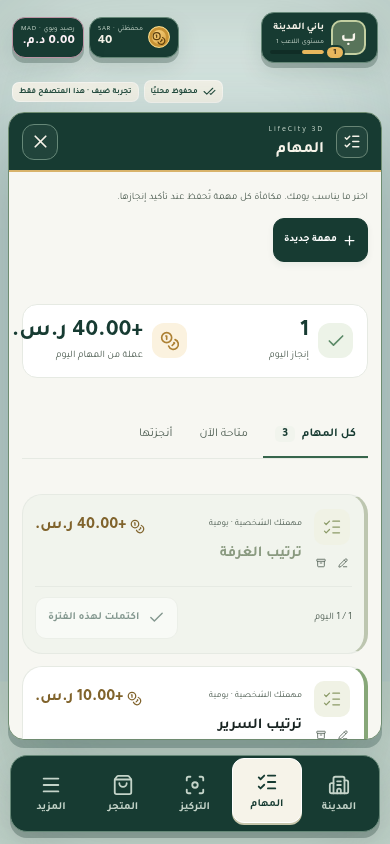
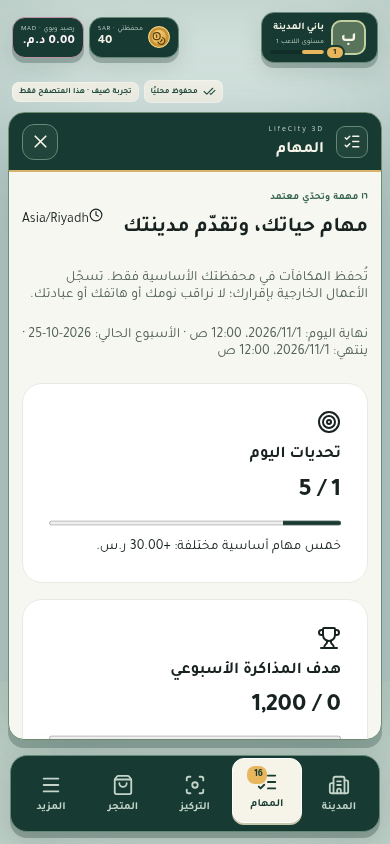
Deliver cached PWA updates safely and put all 16 missions first

diff --git a/src/pages/Tasks.tsx b/src/pages/Tasks.tsx
@@ -55,12 +55,11 @@ export default function Tasks() {
     const payload = editing ? builtin ? {task_id:editing.id,daily_limit:limit} : {task_id:editing.id,...fields} : fields;
     if (await run(editing ? 'task_update' : 'task_create', payload, 'editor')) { setOpen(false); setEditing(null); setTitle(''); }
   }
-  return <div className="page tasks-page"><SectionTitle eyebrow={t('من حياتك إلى مدينتك', 'FROM YOUR LIFE TO YOUR CITY')} title={t('إنجازات صغيرة، أثر كبير.', 'Small actions. Lasting progress.')} description={t('اختر ما يناسب يومك. مكافأة كل مهمة تُحفظ عند تأكيد إنجازها.', 'Choose what fits your day. Each reward is saved when you confirm completion.')} action={<Button onClick={() => openEditor()}><Plus size={19} />{t('مهمة جديدة', 'New task')}</Button>} />
+  return <div className="page tasks-page"><ApprovedTaskBoard/><SectionTitle eyebrow={t('من حياتك إلى مدينتك', 'FROM YOUR LIFE TO YOUR CITY')} title={t('مهامك الأساسية والخاصة', 'Your original & custom tasks')} description={t('اختر ما يناسب يومك. مكافأة كل مهمة تُحفظ عند تأكيد إنجازها.', 'Choose what fits your day. Each reward is saved when you confirm completion.')} action={<Button onClick={() => openEditor()}><Plus size={19} />{t('مهمة جديدة', 'New task')}</Button>} />
     <div className="task-summary"><div><span className="stat-icon moss"><Check size={24} /></span><span><b>{number(today.length)}</b><small>{t('إنجاز اليوم', 'completed today')}</small></span></div><div><span className="stat-icon gold"><Coins size={24} /></span><span><b>+{format(today.reduce((sum, entry) => sum + entry.reward, 0))}</b><small>{t('عملة من المهام اليوم', 'task coins earned today')}</small></span></div><div className="task-summary-note"><Sparkles size={20} /><p>{t('عاداتك هي البذور. مدينتك هي الثمرة.', 'Your habits are the seeds. Your city is what grows.')}</p></div></div>
     {message && <Notice tone={message.error ? 'danger' : 'success'}>{message.text}</Notice>}
     <div className="tab-row" role="group" aria-label={t('تصفية المهام', 'Filter tasks')}>{[['all', t('كل المهام', 'All tasks')], ['available', t('متاحة الآن', 'Available now')], ['done', t('أنجزتها', 'Completed')]].map(([key, label]) => <button className={`tab ${filter === key ? 'active' : ''}`} onClick={() => setFilter(key)} key={key} aria-pressed={filter === key}>{label}{key === 'all' && <span>{number(active.length)}</span>}</button>)}</div>
     {visible.length === 0 ? <div className="panel"><EmptyState icon={<ListChecks size={29} />} title={filter === 'done' ? t('صفحة جديدة ليومك', 'A fresh page for your day') : t('أفسح المجال لخطوة جديدة', 'Make room for a new step')} description={t('أضف مهمة شخصية، أو غيّر التصفية لمشاهدة مهامك.', 'Add a personal task or change the filter to see your tasks.')} action={<Button variant="secondary" onClick={() => openEditor()}><Plus size={17} />{t('أضف مهمة', 'Add a task')}</Button>} /></div> : <div className="tasks-grid">{visible.map(task => { const count = countFor(task); const effectiveLimit = limitFor(task); const done = count >= effectiveLimit; const Icon = task.category === 'exercise' ? Dumbbell : task.category === 'cleaning' ? Flower2 : ListChecks; return <article className={`panel task-card ${done ? 'task-done' : ''}`} key={task.id}><div className="task-card-top"><span className={`task-art task-art-${task.category}`}><Icon size={28} strokeWidth={1.5} /></span><div className="row"><button className="icon-button muted" disabled={!!busy || !online} onClick={() => openEditor(task)} aria-label={t('تعديل المهمة: ', 'Edit task: ') + task.title}><PencilLine size={18} /></button><button className="icon-button muted" disabled={!!busy || !online} onClick={() => void run('task_archive', {task_id: task.id}, task.id)} aria-label={t('أرشفة المهمة: ', 'Archive task: ') + task.title}><Archive size={18} /></button></div></div><span className="task-category">{task.category === 'exercise' ? t('الحركة والعافية', 'Movement & wellness') : task.category === 'cleaning' ? t('مساحتك', 'Your space') : t('مهمتك الشخصية', 'Your personal task')} · {frequencyName(frequencyOf(task))}</span><h2>{language === 'ar-SA' && task.title_ar ? task.title_ar : language === 'en' && task.title_en ? task.title_en : task.title}</h2><div className="task-card-reward"><Coins size={19} /><strong>+{format(task.reward)}</strong><span>{t('لكل إنجاز', 'per completion')}</span></div><div className="task-card-bottom"><span className="muted">{number(count)} / {number(effectiveLimit)} {periodName(frequencyOf(task))}</span><Button variant={done ? 'secondary' : 'primary'} disabled={done || !!busy || !online} loading={busy === task.id} onClick={() => void run('task_complete', {task_id: task.id}, task.id)}><Check size={17} />{done ? t('اكتملت لهذه الفترة', 'Complete for this period') : t('أنجزت المهمة', 'Mark complete')}</Button></div></article>; })}</div>}
-    <ApprovedTaskBoard/>
     <p className="page-footnote">{t('سجّل الإنجاز الفعلي فقط. حدود التكرار والمكافآت يتحقق منها الخادم.', 'Record actual completions. The server checks repetition limits and rewards.')}</p>
     <Modal open={open} onClose={() => { if (!busy) setOpen(false); }} title={editing ? t('إعدادات المهمة', 'Task settings') : t('خطوة جديدة ليومك', 'A new step for your day')}><form onSubmit={event => void saveTask(event)} className="form-stack"><p className="muted">{builtin ? t('مكافأة المهمة الأساسية وجدولها ثابتان. يمكنك ضبط حدّ الإنجاز في اليوم.', 'This standard task has a fixed reward and schedule. You can adjust its daily completion limit.') : t('اختر مهمة واضحة ومكافأة مناسبة. كررها يوميًا أو أسبوعيًا، أو اختر إنجازًا لمرة واحدة فقط.', 'Choose a clear task and a fitting reward. Repeat it daily or weekly, or choose a one-time achievement.')}</p><label className="field"><span>{t('اسم المهمة', 'Task name')}</span><input className="input" value={title} onChange={event => setTitle(event.target.value)} disabled={builtin} required minLength={2} maxLength={120} placeholder={t('مثلًا: المشي في الحديقة', 'For example: a walk in the park')} /></label><div className="form-grid"><label className="field"><span>{t('المكافأة', 'Reward')}</span><input type="number" className="input" required min={1} max={builtin ? undefined : state.preferences.custom_reward_limit} disabled={builtin} value={reward} onChange={event => setReward(Number(event.target.value))} /><small>{builtin ? t('مكافأة ثابتة', 'Fixed reward') : t('الحد الأقصى', 'Maximum') + ': ' + number(state.preferences.custom_reward_limit)}</small></label><label className="field"><span>{t('التكرار', 'Schedule')}</span><select className="select" value={frequency} disabled={builtin} onChange={event => { const next = event.target.value as Frequency; setFrequency(next); if (next === 'once') setLimit(1); }}><option value="daily">{t('يوميًا', 'Daily')}</option><option value="weekly">{t('أسبوعيًا', 'Weekly')}</option><option value="once">{t('مرة واحدة فقط', 'Once only')}</option></select></label></div><label className="field"><span>{frequency === 'weekly' ? t('حدّ الإنجاز في الأسبوع', 'Weekly completion limit') : frequency === 'once' ? t('إنجاز واحد خلال عمر المهمة', 'One lifetime completion') : t('حدّ الإنجاز في اليوم', 'Daily completion limit')}</span><input type="number" className="input" required min={1} max={frequency === 'once' ? 1 : state.preferences.task_daily_limit} disabled={frequency === 'once'} step={1} value={limit} onChange={event => setLimit(Number(event.target.value))} /><small>{frequency === 'weekly' ? t('يبدأ الأسبوع يوم الاثنين حسب منطقتك الزمنية.', 'The week starts on Monday in your timezone.') : frequency === 'once' ? t('يمكن إنجازها مرة واحدة فقط؛ تبقى الإنجازات السابقة محسوبة.', 'This task can be completed once only; past completions still count.') : t('تبدأ الفترة الجديدة عند منتصف الليل في منطقتك الزمنية.', 'A new period starts at midnight in your timezone.')} {t('حدّ الحساب:', 'Account cap:')} {number(state.preferences.task_daily_limit)}</small></label><label className="field"><span>{t('الفئة', 'Category')}</span><select className="select" value={category} disabled={builtin} onChange={event => setCategory(event.target.value)}><option value="personal">{t('شخصية', 'Personal')}</option><option value="cleaning">{t('تنظيم ونظافة', 'Tidying & cleaning')}</option><option value="exercise">{t('رياضة وعافية', 'Exercise & wellness')}</option></select></label>{editing && !builtin && <Notice>{t('تغيير الجدول لا يمحو الإنجازات السابقة؛ تُحسب ضمن الفترة الجديدة عند انطباقها. المكافأة الجديدة تخص الإنجازات المقبلة فقط.', 'Changing the schedule preserves past completions; they count toward the new period when applicable. The new reward applies only to future completions.')}</Notice>}{message?.error && <Notice tone="danger">{message.text}</Notice>}<Button type="submit" disabled={!online || !!busy || !title.trim()} loading={busy === 'editor'}>{editing ? <Save size={18} /> : <Plus size={18} />}{editing ? t('حفظ الإعدادات', 'Save settings') : t('إضافة المهمة', 'Create task')}</Button></form></Modal>
   </div>;

diff --git a/src/components/AppLayout.tsx b/src/components/AppLayout.tsx
@@ -6,6 +6,7 @@ import { useLocale } from '../lib/locale';
 import { levelFromXp } from '../lib/rules';
 import { Button, LoadingState, Modal, Notice } from './Common';
 import City from '../pages/City';
+import {appPath} from '../lib/paths';
 import {useMoney} from '../lib/useMoney';
 import { useStudyHeartbeat } from '../lib/useStudyHeartbeat';
 import '../game-shell.css';
@@ -84,12 +85,12 @@ export default function AppLayout() {
     </main>
     {activeStudy && location.pathname !== '/timer' && <Link to="/timer" className="game-focus-pill" data-testid="active-focus"><Focus size={17}/><span>{activeStudy.status === 'running' ? t('جلسة تركيز مستمرة', 'Focus session running') : t('جلسة تركيز متوقفة', 'Focus session paused')}</span><b>{number(activeStudy.credited_minutes)} {t('د', 'min')}</b></Link>}
     <nav className="game-dock" aria-label={t('التنقل الرئيسي', 'Main navigation')}>
-      {primary.map(({path,icon:Icon,label,hint}) => <NavLink ref={path === '/city' ? cityLink : undefined} key={path} to={path} className={({isActive}) => `game-dock-item ${isActive ? 'active' : ''}`}><span className="game-dock-icon"><Icon size={23}/>{path === '/timer' && activeStudy?.status === 'running' && <i/>}</span><strong>{label}</strong><small>{hint}</small></NavLink>)}
+      {primary.map(({path,icon:Icon,label,hint}) => <NavLink ref={path === '/city' ? cityLink : undefined} key={path} to={path} className={({isActive}) => `game-dock-item ${isActive ? 'active' : ''}`}><span className="game-dock-icon"><Icon size={23}/>{path==='/tasks'&&state?.approved_tasks&&<b className="game-mission-count" aria-label={t('١٦ مهمة وتحدّي','16 tasks and milestones')}>{number(state.approved_tasks.catalog.length)}</b>}{path === '/timer' && activeStudy?.status === 'running' && <i/>}</span><strong>{label}</strong><small>{hint}</small></NavLink>)}
       <button className={`game-dock-item ${menu ? 'active' : ''}`} aria-label={t('قائمة اللعبة', 'Game menu')} aria-haspopup="dialog" onClick={() => setMenu(true)}><span className="game-dock-icon"><Menu size={23}/></span><strong>{t('المزيد', 'More')}</strong><small>{t('مساحاتك', 'YOUR SPACES')}</small></button>
     </nav>
     <Modal open={menu} onClose={() => setMenu(false)} title={t('قائمة اللعبة', 'Game menu')}>
       <div className="game-menu-grid">{extra.map(({path,icon:Icon,label,hint}) => <Link key={path} to={path} onClick={() => setMenu(false)}><span><Icon size={25}/></span><strong>{label}</strong><small>{hint}</small></Link>)}</div>
-      <div className="game-menu-footer"><button className="language-switch button button-secondary" onClick={() => setLanguage(language === 'ar-SA' ? 'en' : 'ar-SA')}>{language === 'ar-SA' ? 'English' : 'العربية'}</button><Link to="/" onClick={() => setMenu(false)}>{t('الشاشة الرئيسية', 'Title screen')}</Link><span>{mode === 'demo' ? t('تجربة محلية', 'Local demo') : t('LifeCity 3D', 'LifeCity 3D')}</span></div>
+      <div className="game-menu-footer"><span data-testid="game-release">{t('تحديث مهام الحياة · ١٦','Life tasks update · 16')}</span>{import.meta.env.PROD&&<a href={appPath('api/update.html')}>{t('تحميل أحدث نسخة مع حفظ التقدّم','Load latest version & keep progress')}</a>}<button className="language-switch button button-secondary" onClick={() => setLanguage(language === 'ar-SA' ? 'en' : 'ar-SA')}>{language === 'ar-SA' ? 'English' : 'العربية'}</button><Link to="/" onClick={() => setMenu(false)}>{t('الشاشة الرئيسية', 'Title screen')}</Link><span>{mode === 'demo' ? t('تجربة محلية', 'Local demo') : t('LifeCity 3D', 'LifeCity 3D')}</span></div>
     </Modal>
   </div>;
 }

diff --git a/src/App.tsx b/src/App.tsx
@@ -4,10 +4,11 @@ import {useAuth} from './lib/game';
 import {useLocale} from './lib/locale';
 const AppLayout=lazy(()=>import('./components/AppLayout'));
 import {appPath} from './lib/paths';
+import {PwaUpdatePrompt} from './components/PwaUpdatePrompt';
 const Landing=lazy(()=>import('./pages/Landing'));const Auth=lazy(()=>import('./pages/Auth'));const Dashboard=lazy(()=>import('./pages/Dashboard'));const Shop=lazy(()=>import('./pages/Shop'));const Tasks=lazy(()=>import('./pages/Tasks'));const Timer=lazy(()=>import('./pages/Timer'));const Prayers=lazy(()=>import('./pages/Prayers'));const Interior=lazy(()=>import('./pages/Interior'));const Yuyi=lazy(()=>import('./pages/Yuyi'));const Stats=lazy(()=>import('./pages/Stats'));const Settings=lazy(()=>import('./pages/Settings'));
 const Legal=lazy(()=>import('./pages/Legal'));
 const Economy=lazy(()=>import('./pages/Economy'));
 const Pricing=lazy(()=>import('./pages/Pricing'));const Visit=lazy(()=>import('./pages/Visit'));
 function Loading(){const {t}=useLocale();return <div className="app-loading" role="status"><img src={appPath('icons/icon.svg')} width="60" height="60" alt=""/><p>{t('نجهّز مساحة لإنجازاتك…','Making room for your progress…')}</p></div>;}
 function Private(){const {user,loading}=useAuth();const location=useLocation();return loading?<Loading/>:user?<AppLayout/>:<Navigate to="/login" state={{from:location.pathname+location.search}} replace/>;}
-export default function App(){return <Suspense fallback={<Loading/>}><Routes><Route path="/" element={<Landing/>}/><Route path="/pricing" element={<Pricing/>}/><Route path="/visit" element={<Visit/>}/><Route path="/privacy" element={<Legal/>}/><Route path="/terms" element={<Legal/>}/><Route path="/refunds" element={<Legal/>}/><Route path="/login" element={<Auth/>}/><Route path="/reset-password" element={<Auth/>}/><Route element={<Private/>}><Route path="/dashboard" element={<Dashboard/>}/><Route path="/city" element={null}/><Route path="/shop" element={<Shop/>}/><Route path="/tasks" element={<Tasks/>}/><Route path="/timer" element={<Timer/>}/><Route path="/prayers" element={<Prayers/>}/><Route path="/interior" element={<Interior/>}/><Route path="/interior/:houseId" element={<Interior/>}/><Route path="/yuyi" element={<Yuyi/>}/><Route path="/stats" element={<Stats/>}/><Route path="/settings" element={<Settings/>}/><Route path="/economy" element={<Economy/>}/></Route><Route path="*" element={<Navigate to="/" replace/>}/></Routes></Suspense>;}
+export default function App(){return <><PwaUpdatePrompt/><Suspense fallback={<Loading/>}><Routes><Route path="/" element={<Landing/>}/><Route path="/pricing" element={<Pricing/>}/><Route path="/visit" element={<Visit/>}/><Route path="/privacy" element={<Legal/>}/><Route path="/terms" element={<Legal/>}/><Route path="/refunds" element={<Legal/>}/><Route path="/login" element={<Auth/>}/><Route path="/reset-password" element={<Auth/>}/><Route element={<Private/>}><Route path="/dashboard" element={<Dashboard/>}/><Route path="/city" element={null}/><Route path="/shop" element={<Shop/>}/><Route path="/tasks" element={<Tasks/>}/><Route path="/timer" element={<Timer/>}/><Route path="/prayers" element={<Prayers/>}/><Route path="/interior" element={<Interior/>}/><Route path="/interior/:houseId" element={<Interior/>}/><Route path="/yuyi" element={<Yuyi/>}/><Route path="/stats" element={<Stats/>}/><Route path="/settings" element={<Settings/>}/><Route path="/economy" element={<Economy/>}/></Route><Route path="*" element={<Navigate to="/" replace/>}/></Routes></Suspense></>;}

diff --git a/src/components/PwaUpdatePrompt.tsx b/src/components/PwaUpdatePrompt.tsx
@@ -1,0 +1,17 @@
+import {useEffect,useRef,useState} from 'react';
+import {useRegisterSW} from 'virtual:pwa-register/react';
+import {RefreshCw} from 'lucide-react';
+import {useGame} from '../lib/game';
+import {useLocale} from '../lib/locale';
+import {Button} from './Common';
+import './pwa-update.css';
+
+/** Prompted updates preserve saved data and settle a running focus session first. */
+export function PwaUpdatePrompt(){
+ const {state,saveStatus,online,mutate}=useGame();const {t}=useLocale();const registration=useRef<ServiceWorkerRegistration|undefined>(undefined);const [busy,setBusy]=useState(false);const [failed,setFailed]=useState(false);const lock=useRef(false);
+ const {needRefresh:[needRefresh],updateServiceWorker}=useRegisterSW({onRegisteredSW(_url,r){registration.current=r;}});
+ useEffect(()=>{const check=()=>{if(navigator.onLine&&document.visibilityState==='visible'&&registration.current?.active)void registration.current.update().catch(()=>{});};window.addEventListener('focus',check);window.addEventListener('online',check);const timer=window.setInterval(check,3600000);return()=>{window.removeEventListener('focus',check);window.removeEventListener('online',check);window.clearInterval(timer);};},[]);
+ async function update(){if(lock.current||!online||saveStatus==='saving')return;lock.current=true;setBusy(true);setFailed(false);try{const active=state?.study_sessions.find(s=>s.status==='running');if(active)await mutate('study_pause',{session_id:active.id});await updateServiceWorker(true);}catch{setFailed(true);}finally{lock.current=false;setBusy(false);}}
+ if(!needRefresh)return null;
+ return <aside className="pwa-update-prompt" role="status" data-testid="pwa-update-prompt"><div><strong>{t('تحديث اللعبة جاهز','Game update ready')}</strong><p>{t('تقدّمك المحفوظ يبقى كما هو. سنوقف جلسة التركيز مؤقتًا إن كانت تعمل.','Saved progress stays intact. A running focus session will be paused first.')}</p>{failed&&<p>{t('تعذّر إتمام التحديث. راجع الاتصال وحاول مجددًا.','Update could not finish. Check your connection and retry.')}</p>}</div><Button disabled={busy||!online||saveStatus==='saving'} loading={busy} onClick={()=>void update()}><RefreshCw size={17}/>{t('تحديث الآن','Update now')}</Button></aside>;
+}

diff --git a/public/api/update.js b/public/api/update.js
@@ -1,0 +1,15 @@
+/* global URL, document, clearTimeout, setTimeout, navigator, location */
+// This route deliberately bypasses older Workbox navigation fallbacks (/api/).
+// Never clear IndexedDB/localStorage/caches, or touch another application's worker.
+const appBase=new URL('../',import.meta.url);
+const status=document.querySelector('#update-status');
+const retry=document.querySelector('#update-retry');
+let busy=false;
+function waitFor(worker,states){return new Promise((resolve,reject)=>{let timer;const changed=()=>{if(states.includes(worker.state)){cleanup();resolve();}else if(worker.state==='redundant'){cleanup();reject(new Error('UPDATE_FAILED'));}};const cleanup=()=>{clearTimeout(timer);worker.removeEventListener('statechange',changed);};worker.addEventListener('statechange',changed);timer=setTimeout(()=>{cleanup();reject(new Error('UPDATE_TIMEOUT'));},15000);changed();});}
+async function update(){if(busy)return;busy=true;retry.hidden=true;status.textContent='نحمّل النسخة الجديدة مع الاحتفاظ بالحفظ والمخزون والأرصدة.';try{
+ if(!navigator.onLine)throw new Error('OFFLINE');
+ if('serviceWorker' in navigator){const registrations=await navigator.serviceWorker.getRegistrations();for(const registration of registrations){if(registration.scope!==appBase.href)continue;await registration.update();if(registration.installing)await waitFor(registration.installing,['installed','activated']);const waiting=registration.waiting;if(waiting){const activated=waitFor(waiting,['activated']);waiting.postMessage({type:'SKIP_WAITING'});await activated;}}}
+ status.textContent='اكتمل التحديث. نفتح المهام الجديدة الآن…';location.replace(new URL('tasks',appBase).href);
+ }catch{status.textContent='تعذّر تحميل التحديث. تأكد من الاتصال ثم أعد المحاولة؛ حفظك لم يُحذف.';retry.hidden=false;}finally{busy=false;}}
+retry.addEventListener('click',()=>void update());
+void update();

diff --git a/src/game-shell.css b/src/game-shell.css
@@ -51,3 +51,5 @@
 .approved-board{display:grid;gap:1.4rem;margin-block:2rem}.approved-heading{display:flex;justify-content:space-between;align-items:center;gap:1rem;flex-wrap:wrap}.approved-heading h2{margin:.5rem 0}.approved-progress,.approved-grid{display:grid;grid-template-columns:repeat(auto-fit,minmax(min(100%,230px),1fr));gap:1rem}.approved-progress article,.approved-card{display:grid;align-content:start;gap:.7rem}.approved-progress strong{font-size:1.6rem}.approved-card h4{font-size:1.05rem;margin:0}.approved-card strong{color:var(--forest);font-size:1.25rem}.approved-done{border-color:var(--moss)}.approved-card button{margin-top:auto}.approved-board progress{accent-color:var(--forest);width:100%;height:10px}.approved-board details summary{cursor:pointer;font-weight:700;min-height:36px}.weekly-goal,.task-receipt{display:grid;gap:.5rem;padding-block:1rem;border-bottom:1px solid var(--border)}.task-receipt code{font-size:.7rem;overflow-wrap:anywhere}.approved-board .checkbox{display:flex;gap:.7rem;align-items:start}.approved-board .checkbox input{min-width:20px;min-height:20px}
 
 .approved-dashboard{display:flex;align-items:center;gap:1rem;color:var(--text);text-decoration:none;margin-block:1rem}.approved-dashboard p{margin:.4rem 0}.approved-dashboard small{color:var(--muted)}
+
+.game-mission-count{position:absolute;inset-inline-end:-9px;top:-5px;min-width:20px;padding:2px 4px;border-radius:8px;background:var(--gold);color:#173b32;font-size:10px;line-height:14px}.tasks-page>.approved-board{margin-block-start:0}.tasks-page>.section-title{margin-block-start:2rem}

diff --git a/public/api/update.html b/public/api/update.html
@@ -1,0 +1,2 @@
+<!doctype html>
+<html lang="ar-SA" dir="rtl"><head><meta charset="UTF-8"><meta name="viewport" content="width=device-width,initial-scale=1"><meta http-equiv="Content-Security-Policy" content="default-src 'self'; script-src 'self'; style-src 'self' 'unsafe-inline'; font-src 'self'; connect-src 'self'; object-src 'none'; base-uri 'none'"><meta name="robots" content="noindex"><title>تحديث LifeCity 3D</title><style>@font-face{font-family:Tajawal;src:url('../fonts/Tajawal-Regular.ttf')}*{box-sizing:border-box}body{margin:0;min-height:100svh;display:grid;place-items:center;background:#173b32;color:#f6f3e9;font-family:Tajawal,Arial,sans-serif;padding:24px}main{width:min(100%,520px);padding:32px;border:1px solid #648474;border-radius:24px;background:#21473c}h1{font-size:28px}p{line-height:1.9}button,a{font:inherit;color:#173b32;background:#e8b75d;border:0;border-radius:12px;padding:14px 22px;min-height:48px;cursor:pointer;display:inline-block}button[hidden]{display:none}small{color:#d8e6d6}</style></head><body><main><small>LifeCity 3D</small><h1>نحدّث اللعبة</h1><p id="update-status" role="status">نحمّل النسخة الجديدة مع الاحتفاظ بالحفظ والمخزون والأرصدة.</p><p>لا تمسح بيانات المتصفح. هذا التحديث لا يحذف الحفظ.</p><button id="update-retry" type="button" hidden>إعادة المحاولة</button><noscript><p>فعّل JavaScript لإتمام التحديث.</p></noscript></main><script type="module" src="./update.js"></script></body></html>

diff --git a/vite.config.ts b/vite.config.ts
@@ -16,7 +16,7 @@ export default defineConfig(({mode})=>{
   plugins:[react(),tailwind(),{name:'lifecity-production-csp',apply:'build',transformIndexHtml(html){return html.replace('<head>',`<head><meta http-equiv="Content-Security-Policy" content="${csp}">`);}},VitePWA({
    registerType:'prompt',includeAssets:['icons/icon.svg','fonts/*.ttf'],
    manifest:{name:'LifeCity 3D | لايف سيتي',short_name:'لايف سيتي',description:'ابنِ مدينتك بإنجازاتك',lang:'ar-SA',dir:'rtl',theme_color:'#173B32',background_color:'#F6F3E9',display:'standalone',start_url:base,scope:base,icons:[{src:base+'icons/icon-192.png',sizes:'192x192',type:'image/png',purpose:'any'},{src:base+'icons/icon-512.png',sizes:'512x512',type:'image/png',purpose:'any'},{src:base+'icons/maskable-512.png',sizes:'512x512',type:'image/png',purpose:'maskable'}]},
-   workbox:{globPatterns:['**/*.{js,css,html,png,svg,ttf}'],maximumFileSizeToCacheInBytes:5*1024*1024,navigateFallback:base+'index.html',navigateFallbackDenylist:[/\/api\//],runtimeCaching:[]},devOptions:{enabled:false}
+   workbox:{globPatterns:['**/*.{js,css,html,png,svg,ttf}'],globIgnores:['**/api/**'],maximumFileSizeToCacheInBytes:5*1024*1024,navigateFallback:base+'index.html',navigateFallbackDenylist:[/\/api\//],runtimeCaching:[]},devOptions:{enabled:false}
   })],
   server:{port:5173,proxy:{'/api':{target:'http://127.0.0.1:4174',changeOrigin:false}}},
   build:{target:'es2022',rollupOptions:{output:{manualChunks(id){

diff --git a/src/components/pwa-update.css b/src/components/pwa-update.css
@@ -1,0 +1,2 @@
+.pwa-update-prompt{position:fixed;z-index:80;inset-inline:16px;top:calc(100px + env(safe-area-inset-top));margin-inline:auto;max-width:600px;display:flex;align-items:center;gap:1rem;padding:1rem;border:1px solid var(--moss);border-radius:16px;background:var(--surface);color:var(--text);box-shadow:0 12px 36px #0003}.pwa-update-prompt p{margin:.3rem 0;line-height:1.5;font-size:.85rem}.pwa-update-prompt button{flex-shrink:0}
+@media(max-width:440px){.pwa-update-prompt{align-items:stretch;flex-direction:column}}

diff --git a/src/pwa.d.ts b/src/pwa.d.ts
@@ -1,0 +1,1 @@
+/// <reference types="vite-plugin-pwa/react" />

diff --git a/docs/v6/NEXT.md b/docs/v6/NEXT.md
@@ -1,25 +1,28 @@
-# Next work — owner paused expansions for publication
+# Continue the entire master prompt — latest owner instruction
 
-The exact16-task engine is implemented, tested and its Supabase migration applied.
-Read RELEASE-tasks.md before changing it. Existing main/MAD history remains intact.
+The owner superseded the publication pause and explicitly requested ALL20
+expansions and the rest of the attached prompt. The16-task engine exists and is
+tested; older cached PWA clients can still show3 tasks. Finish the delivery repair
+(UPDATE-DELIVERY.md), publish it, verify the recovery link on the real public site,
+then continue implementation without asking the owner again. Do not stop after
+the delivery repair or silently leave20 rows pending.
 
-The latest owner instruction was STOP new feature work and publish the current
-foundation +16-task increment. Publication is complete (run41148905443), with
-real public guest verification recorded in live-tasks-publication.json. Do not start expansions or Auth configuration until
-the owner explicitly asks again. All20 expansions remain mandatory future scope,
-tracked NOT STARTED in STATUS.md. No nonfunctional expansion menus were added.
+Next: a shared typed world-meter/entity model and server-authoritative quote and
+settlement boundary, measured construction/parcels, then avatar/walk-through/cars,
+terrain/underground, utility/transport/traffic graphs, residents/services/malls/
+hotels, contractors/installments/materials, private surprises/planner/celebrations.
+Implement each as functioning operations, connected3D visuals, persistence and
+meaningful tests before marking its row implemented. Preserve exact16 tasks and
+old tasks, real FX, independent MAD, source-wallet historical50% refunds, data,
+original engine/framework and Github-only publication.
 
-When continuation is requested, begin the V6 shared world-meter/entity schema,
-server-authoritative quotes/settlement and measured parcels/construction, then
-avatar/walk-through/driving, terrain/underground, infrastructure, living services,
-contractors/installments/materials and private surprises/planner/celebrations in
-the original specification order. Preserve the exact task engine, genuine FX,
-independent MAD wallet and paid-basis50% demolition throughout.
+Suggested service integration: pure typed engine shared by the reference server
+and a Supabase Edge Function. Only a restricted service-role settlement RPC may
+commit its computed changes, with actual Auth.getUser validation at the Edge,
+owner locks, expected revision, receipt idempotency, exact wallet values, paid
+components and50% SQL-checked refunds. Client-provided costs/state are never
+trusted. Exposed per-user entity/component/event tables require owner RLS.
 
-Suggested new modules: src/expansion/types.ts and simulation/planning modules,
-a NEW CLI-generated migration (never edit either already-applied20261030/31 SQL),
-server-authoritative command adapter, accessible in-game controls and R3F world
-integration. Implement real operations before exposing each menu. Test ownership,
-RLS, conflicts/idempotency, original source-wallet costs, exact half refunds,
-network disconnects, debt, passive-income cap, real traversal and saved reloads.
-No arbitrary client balance/eligibility/quote authority. No Auth/email work now.
+Keep Auth setup as the later stage; do not ask for Auth URLs while implementing
+the game. No new promises of completed features or successful deploys without
+evidence. Read STATUS.md and the original full specification.

diff --git a/docs/v6/UPDATE-DELIVERY.md b/docs/v6/UPDATE-DELIVERY.md
@@ -1,0 +1,38 @@
+# Cached-release delivery repair — 2026-10-31
+
+The owner reported seeing only3 old tasks. A fresh real public browser confirmed
+the published16-row catalog, but this does not prove that an existing PWA client
+updated. The old build used Workbox prompt mode without a prompt UI.
+
+An actual e32bf7e production build reproduced the problem: after serving the new
+build, the existing controlled client still showed3 old cards and0 approved cards,
+with a new service worker waiting. No mock worker or mocked browser storage.
+
+Changes: a same-app /api/update.html recovery page bypasses the old navigation
+fallback, installs/activates the latest worker and opens Tasks. It never clears
+IndexedDB, localStorage or caches, and never updates another app's registration.
+Future updates expose an in-game prompt, pause an active focus session before
+reloading, and wait while saving. New approved tasks appear FIRST in Missions;
+the dock and menu identify the16-task release. Original/custom tasks remain.
+
+Checks: lint/typecheck/build pass; compiled Pages/PWA checks pass; the9-state
+HUD accessibility case passes. npm run verify:pwa-upgrade passes with real older
+and newer compiled builds: saved wallet, inventory, placements and ledger remain
+identical;16 catalog rows/12 regular cards appear with0 retrospective claims.
+A subsequent real worker update shows the prompt and pauses the same study
+session before reload. Evidence: ../evidence/pwa-upgrade.json.
+
+Reproduce from a clean project with installed locked dependencies:
+
+```sh
+mkdir -p work/pwa-old-source
+git archive e32bf7e | tar -x -C work/pwa-old-source
+ln -s "$PWD/node_modules" work/pwa-old-source/node_modules
+(cd work/pwa-old-source && npm run build:github)
+npm run build:github
+npm run verify:pwa-upgrade
+```
+
+Latest owner instruction resumes the WHOLE master prompt and all20 expansions.
+This repair is the first step; it does not claim any expansion implemented. Auth
+remains a later stage while the requested game systems are built.
